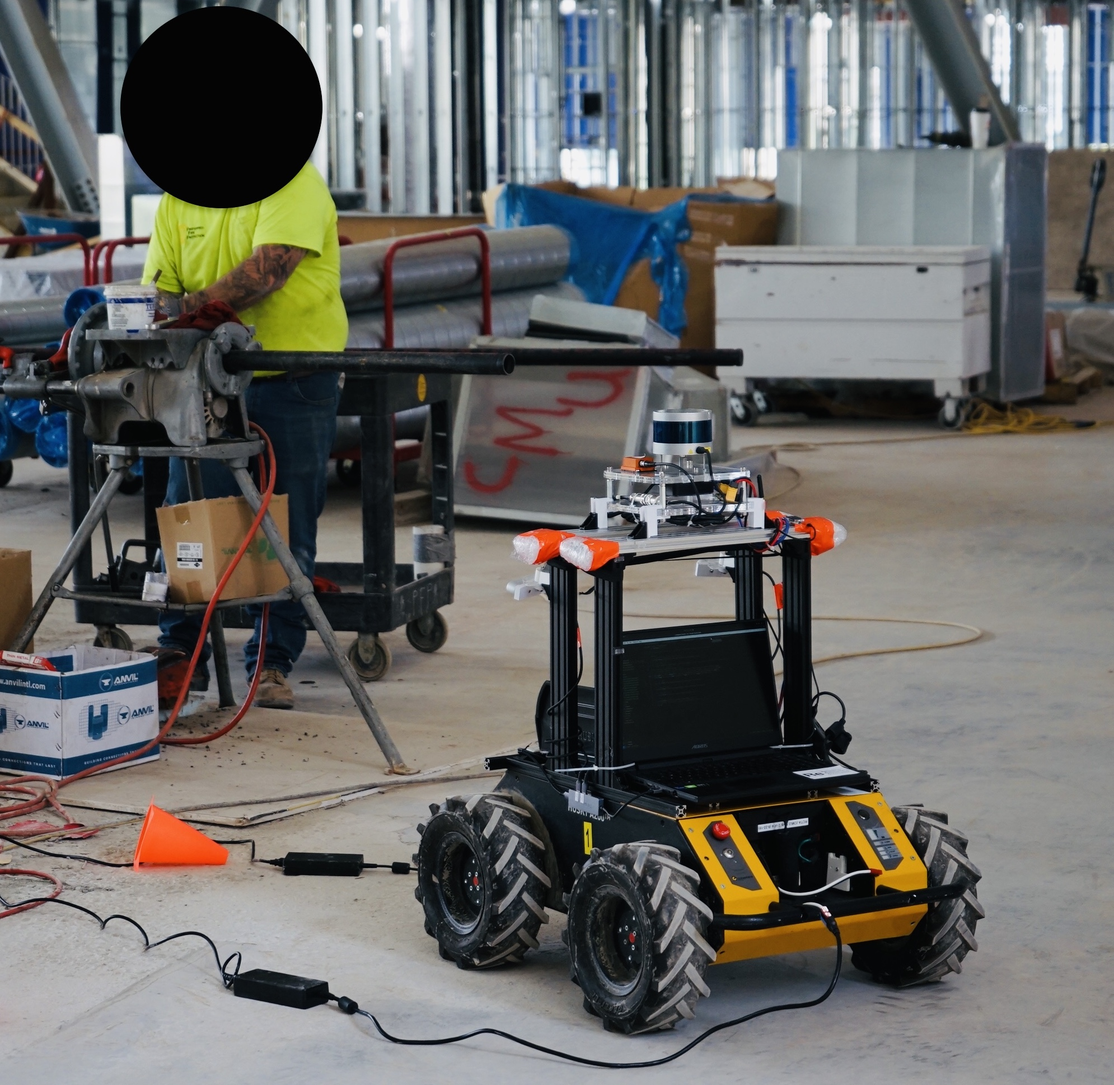
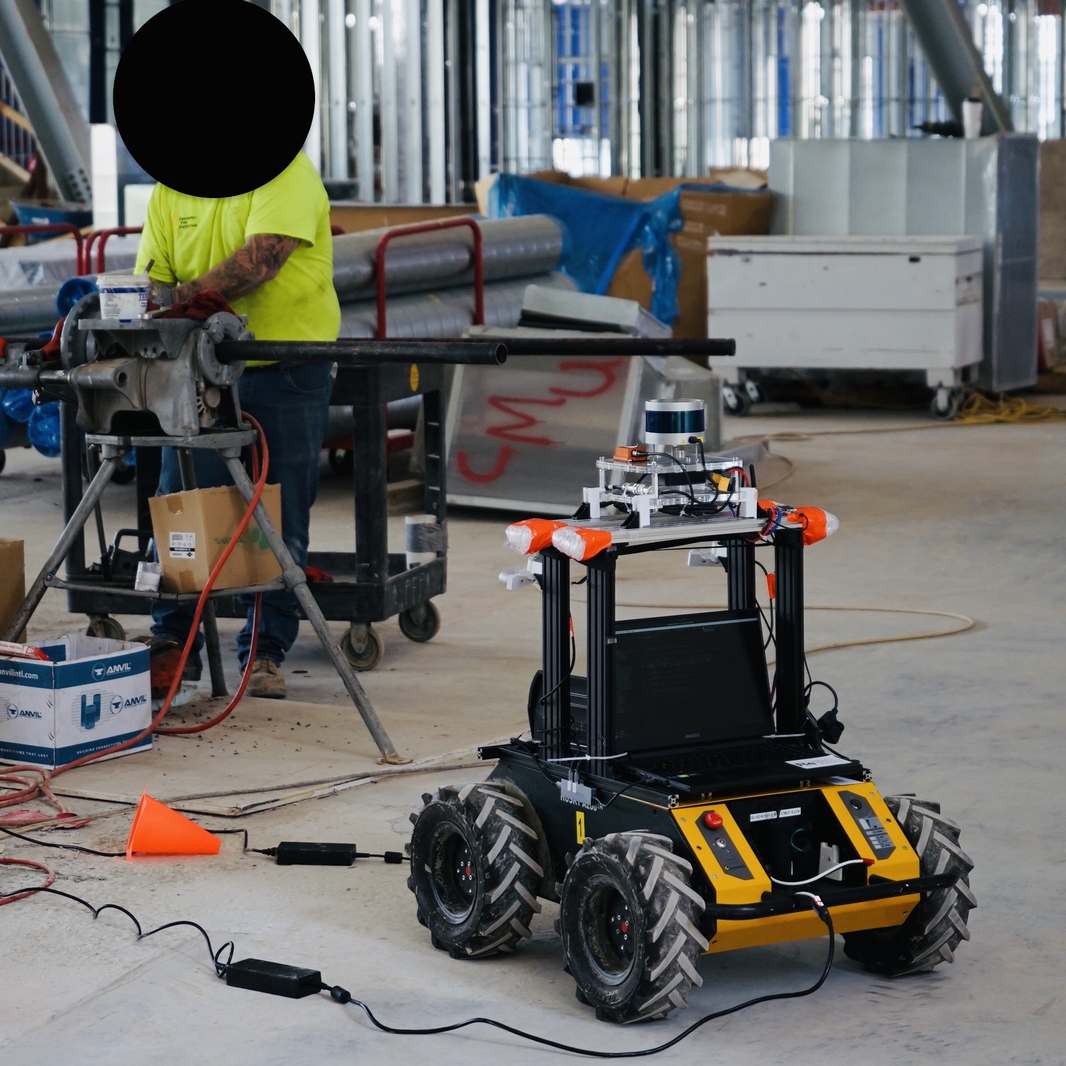
feat: major update on robot

diff --git a/_includes/intro.html b/_includes/intro.html
@@ -44,24 +44,20 @@
       aesthetics recommendation system, we profile clients' spatial
       preferences to assist architects form better design decisions. In
       my leisure time, I enjoy photography, cooking, reading, and drum
-      playing. I'm also the cat parent of two extremely cute little beasts: Sophie (Tangtang) and Huihui. I can be
-      reached at
-      <strong>yuningw</strong>
-      [at]
-      <strong>andrew</strong>
-      [dot]
-      <strong>cmu</strong>
-      [dot]
-      <strong>edu</strong>. Brief
-      <a href="assets/file/resume_yuningw_230515.pdf" class="badge badge-dark">bio</a>
-      .
-    </p>
-
-    <p style="margin-top: 10px">
-      If you are curious about my favorite readings, one of them is Herbert Simon's <i>The Sciences of the
+      playing. I'm also the cat parent of two extremely cute little beasts: Sophie (Tangtang) and Huihui. If you are curious about my favorite readings, one of them is Herbert Simon's <i>The Sciences of the
         Artificial</i>. He is also the reason why I choose Carnegie Mellon for my doctoral studies. If you are interested in the other side of me: <a href="portfolio.html"
         class="badge badge-dark"><strong>SIDE-B:
-          architecture of things</strong></a>, go ahead and flip it!
+          architecture of things</strong></a>, go ahead and flip it! I can be
+          reached at
+          <strong>yuningw</strong>
+          [at]
+          <strong>andrew</strong>
+          [dot]
+          <strong>cmu</strong>
+          [dot]
+          <strong>edu</strong>. Brief
+          <a href="assets/file/resume_yuningw_230515.pdf" class="badge badge-dark">bio</a>
+          .
     </p>
   </div>
 </div>

diff --git a/_includes/selected.html b/_includes/selected.html
@@ -2,7 +2,7 @@
   <div>
     <h4>SELECTED</h4>
     <p style="font-weight: 900">•</p>
-    <table class="table" style="margin: 10px 0">
+    <table class="table" style="margin: 10px 0; border-color: black;">
       <tbody>
         {% for item in site.data.selected %}
         <tr>
@@ -21,7 +21,6 @@
             {% if item.link %}
             <p style="text-decoration: underline"></p>
             <a href="{{ item.link }}">
-
               <strong>{{ item.title }}</strong>
             </a>
             </p>
@@ -32,17 +31,17 @@
             {% endif %}
             <!-- <p style="margin: 0">{{ item.conference }}</p> -->
 
-            <p style="color: gray">
+            <p>
               {{ item.conference}} {% if item.pub %} /
-              <a href="{{ item.paper }}" style="color: gray">paper</a>
+              <a href="{{ item.paper }}">paper</a>
               {% endif %} {% if item.video %} /
-              <a href="{{ item.video }}" style="color: gray">video</a>
+              <a href="{{ item.video }}">video</a>
               {% endif %} {% if item.code %} /
-              <a href="{{ item.code }}" style="color: gray">code</a>
+              <a href="{{ item.code }}">code</a>
               {% endif %} {% if item.slides %} /
-              <a href="{{ item.slides }}" style="color: gray">slides</a>
+              <a href="{{ item.slides }}">slides</a>
               {% endif %} {% if item.link %} /
-              <a href="{{ item.link }}" style="color: gray">project page</a>
+              <a href="{{ item.link }}">project page</a>
               {% endif %}
             </p>
             <p>

diff --git a/portfolio.html b/portfolio.html
@@ -9,7 +9,9 @@ title: YUNING WU
       <div style="margin-bottom: 50px">
         <h4>ARCHITECTURE OF THINGS</h4>
         <p style="font-weight: 900">•</p>
-        <p>Welcome to <strong>SIDE-B</strong>. As a curious person who has always appreciated (all kinds of) elegant
+        <p style="margin-top: 10px">Welcome to <strong>SIDE-B</strong>.</p>
+        <p style="margin-top: 10px">
+          As a curious person who has always appreciated (all kinds of) elegant
           systems emerged in the flow of human civilization and beyond, my journey starts in architecture. Although people might
           find it confusing how someone trained to design buildings ended up working with robots and AI, to me they
           share the same philosophical traits of <strong>architecting amazing, beautiful, and eventually intelligent things</strong>.
@@ -32,10 +34,8 @@ title: YUNING WU
                     <strong>{{ item.title }}</strong>
                   </a>
                 </p>
-                <p style="margin: 0; color: gray">{{ item.subtitle }}</p>
-                <p><small>{{ item.studio }}</small></p>
-                <p>{{ item.designer }}</p>
-                <p></p>
+                <p style="margin: 0">{{ item.subtitle }} / {{ item.studio }}</p>
+                <p><small>{{ item.designer }}</small></p>
               </td>
             </tr>
             {% endfor %}

diff --git a/_includes/robot.html b/_includes/robot.html
@@ -4,24 +4,20 @@
     <p style="font-weight: 900">•</p>
   </div>
 
-  <!-- robot -->
-  <div class="card-deck">
+  <div class="card-deck" style="padding: 0 10px;">
     {% for item in site.data.robot %}
-    <!-- <div class="col-xl-3 col-md-6 col-sm-6" style="padding: 0;">
-      <img src="{{ item.img }}" class="rounded-circle" style="width: 150px; height: 150px; object-fit: cover;"
-        alt="Avatar" />
-      
-    </div> -->
-    <div class="card text-white col-xl-2" style="padding: 0; border-width: 0; border-radius: 15px;">
-      <img class="card-img" src="{{ item.img }}" alt="Card image" style="border-radius: 10px;">
-      <div class="card-img-overlay" style="padding: 15px; border-radius: 10px; ">
-        <p class="badge badge-dark">{{ item.name }}</h5>
-        <p class="card-text">{{ item.desc }}</p>
+    <div class="card" style="padding: 0; border-radius: 0; margin: 5px;">
+      <img class="card-img-top" style="border-radius: 0;" src="{{ item.img }}" alt="Card image cap">
+      <div class="card-body" style="padding: 10px;" >
+        <p class="card-title"><strong>{{ item.name }}</strong></p>
+        <p class="card-text"><small>{{ item.desc }}</small></p>
       </div>
+      <!-- <div class="card-footer">
+        <small class="text-muted">Last updated 3 mins ago</small>
+      </div> -->
     </div>
     {% endfor %}
   </div>
 
-
-
 </div>
+

diff --git a/_includes/update.html b/_includes/update.html
@@ -5,7 +5,13 @@
     {% for item in site.data.update %}
     <p>
       <strong><tt>{{ item.time }} </tt></strong>
-      <span>{{ item.content }}</span>
+
+      {% if item.priority %}
+        <span style="font-weight: 700;">{{ item.content }}</span>
+      {% else %}
+        <span>{{ item.content }}</span>
+      {% endif %}
+
       {% if item.link %}
       See <a href="{{ item.link }}">{{ item.link-text }}</a> <i class="fa fa-external-link" aria-hidden="true"></i>.
       {% endif %}

diff --git a/assets/bootstrap/css/bootstrap.min.css b/assets/bootstrap/css/bootstrap.min.css
@@ -159,7 +159,7 @@ strong {
   font-weight: 700;
 }
 small {
-  font-size: 80%;
+  font-size: 90%;
 }
 sub,
 sup {
@@ -1672,13 +1672,13 @@ pre code {
 .table {
   width: 100%;
   margin-bottom: 1rem;
-  color: #212529;
+  color: black;
 }
 .table td,
 .table th {
   padding: 0.75rem 0;
   vertical-align: top;
-  border-top: 1px solid #dee2e6;
+  border-top: 1px solid black;
 }
 .table thead th {
   vertical-align: bottom;
